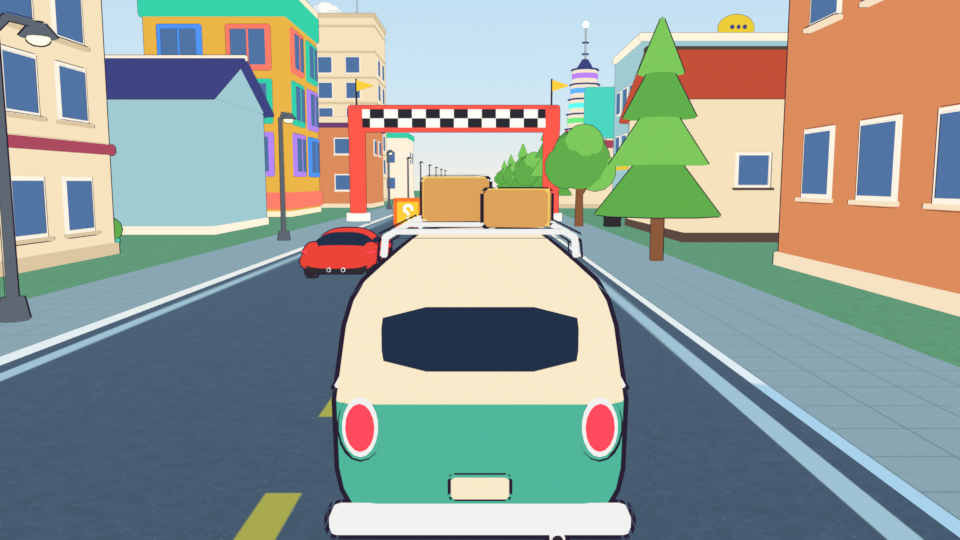
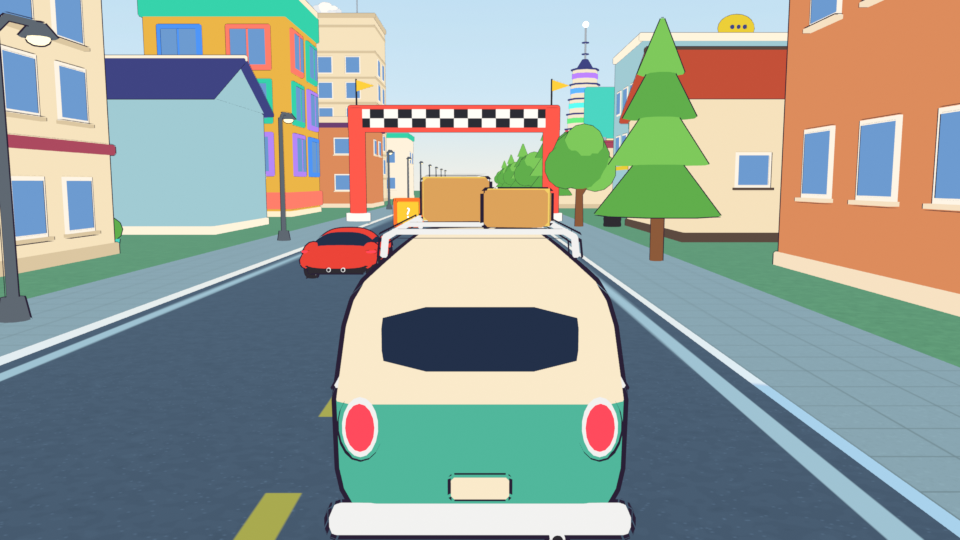
Art: portraits (Dina, Gee, Noise), courier heroes, more trees, extra textures, art README

diff --git a/tools/e2e_main.py b/tools/e2e_main.py
@@ -1,0 +1,132 @@
+"""End-to-end check of the MAIN page (index.html) with the drive engine, in the real Chrome (GPU).
+usage: python -I tools/e2e_main.py <out_prefix> [WxH] [base_url] [steps]
+steps (comma list, default all): lesson, race, delivery, drift, tow
+Records bus events (drive:poi, drive:race-end, drive:toast) and screenshots each stage.
+"""
+import sys, json
+sys.stdout.reconfigure(encoding="utf-8", errors="replace")
+from playwright.sync_api import sync_playwright
+
+prefix = sys.argv[1]
+w, h = [int(x) for x in (sys.argv[2] if len(sys.argv) > 2 else "1280x720").split("x")]
+base = sys.argv[3] if len(sys.argv) > 3 else "http://localhost:5182/"
+steps = (sys.argv[4] if len(sys.argv) > 4 else "lesson,race,delivery,drift,tow").split(",")
+touch = w < 800
+
+HOOK = """() => {
+  const pr = window.__pr; window.__ev = [];
+  for (const k of ['drive:poi', 'drive:race-end', 'drive:toast', 'drive:gate', 'drive:ready'])
+    pr.bus.on(k, (p) => window.__ev.push([k, JSON.stringify(p ?? null).slice(0, 160)]));
+  return 'hooked';
+}"""
+
+def ev(pg, clear=True):
+    r = pg.evaluate("() => { const e = window.__ev.slice(); return e; }")
+    if clear:
+        pg.evaluate("() => { window.__ev.length = 0; }")
+    return r
+
+def teleport_to(pg, poi_id):
+    return pg.evaluate("""(id) => { const d = window.__pr.drive; const p = d.city.pois.find((q) => q.id === id);
+      if (!p) return 'no poi ' + id; const r = d.city.nearestRoad(p.x, p.z);
+      window.__pr.bus.emit('drive:teleport', { x: p.x, z: p.z, heading: r.heading }); return [p.x.toFixed(0), p.z.toFixed(0)]; }""", poi_id)
+
+def click_text(pg, text, timeout=4000):
+    pg.get_by_role("button", name=text).first.click(timeout=timeout)
+
+def race_with_bot(pg, race_id, max_s, tag):
+    pg.evaluate("""(id) => { const d = window.__pr.drive; const r = d.city.races.find((q) => q.id === id || q.kind === id);
+       window.__pr.bus.emit('drive:start-race', r); d.setAuto(true); return r && r.id; }""", race_id)
+    pg.wait_for_timeout(5000)
+    pg.screenshot(path=f"{prefix}_{tag}_a.png")
+    end = None
+    for i in range(int(max_s / 2)):
+        pg.wait_for_timeout(2000)
+        es = ev(pg)
+        for k, p in es:
+            if k == 'drive:race-end':
+                end = p
+        if end:
+            break
+    pg.wait_for_timeout(800)
+    pg.screenshot(path=f"{prefix}_{tag}_end.png")
+    pg.evaluate("() => window.__pr.drive.setAuto(false)")
+    print(tag, "race-end:", end)
+
+with sync_playwright() as p:
+    b = p.chromium.launch(executable_path=r"C:\Program Files\Google\Chrome\Application\chrome.exe", headless=True,
+                          args=["--headless=new", "--use-angle=d3d11", "--enable-gpu", "--ignore-gpu-blocklist", "--disable-background-timer-throttling", "--disable-renderer-backgrounding"])
+    pg = b.new_context(viewport={"width": w, "height": h}, has_touch=touch, is_mobile=touch).new_page()
+    errs = []
+    pg.on("pageerror", lambda e: errs.append("PAGEERROR " + str(e)))
+    pg.on("console", lambda m: errs.append(m.text) if m.type == "error" and "404" not in m.text else None)
+    pg.goto(base + "?fresh", wait_until="networkidle")
+    pg.wait_for_timeout(1200)
+    click_text(pg, "התחלה")
+    pg.wait_for_timeout(500)
+    try:
+        click_text(pg, "יאללה")
+    except Exception as e:
+        print("no יאללה", e)
+    for i in range(14):
+        pg.mouse.click(w // 2, h // 2); pg.wait_for_timeout(150)
+        pg.mouse.click(w // 2, h // 2); pg.wait_for_timeout(250)
+        if pg.locator(".help-screen").count():
+            break
+    try:
+        click_text(pg, "הבנתי")
+    except Exception as e:
+        print("no הבנתי", e)
+    pg.wait_for_function("() => window.__pr && window.__pr.drive && window.__pr.drive.sim", timeout=20000)
+    print(pg.evaluate(HOOK))
+    pg.wait_for_timeout(2500)
+    pg.screenshot(path=f"{prefix}_0world.png")
+
+    if "lesson" in steps:
+        print("teleport", teleport_to(pg, "garage_lesson06"))
+        pg.wait_for_timeout(1500)
+        pg.screenshot(path=f"{prefix}_1poi.png")
+        if touch:
+            print("prompt", pg.evaluate("() => document.body.innerText.includes('מוסך') "))
+        pg.keyboard.press("KeyE")
+        pg.wait_for_timeout(1500)
+        print("lesson events", ev(pg))
+        pg.screenshot(path=f"{prefix}_2lesson.png")
+        pg.goto(base + "?fresh", wait_until="networkidle")   # restart clean for the races
+        pg.wait_for_timeout(1000)
+        click_text(pg, "התחלה"); pg.wait_for_timeout(400)
+        try: click_text(pg, "יאללה")
+        except Exception: pass
+        for i in range(14):
+            pg.mouse.click(w // 2, h // 2); pg.wait_for_timeout(150)
+            pg.mouse.click(w // 2, h // 2); pg.wait_for_timeout(250)
+            if pg.locator(".help-screen").count(): break
+        try: click_text(pg, "הבנתי")
+        except Exception: pass
+        pg.wait_for_function("() => window.__pr && window.__pr.drive && window.__pr.drive.sim", timeout=20000)
+        pg.evaluate(HOOK)
+        pg.wait_for_timeout(1500)
+
+    if "race" in steps:
+        print("teleport", teleport_to(pg, "race_r_docks"))
+        pg.wait_for_timeout(1200)
+        pg.keyboard.press("KeyE")
+        pg.wait_for_timeout(1500)
+        print("race poi events", ev(pg, clear=False))
+        pg.screenshot(path=f"{prefix}_3racepoi.png")
+        race_with_bot(pg, "r_docks", 260, "4circuit")
+    if "delivery" in steps:
+        race_with_bot(pg, "delivery", 160, "5delivery")
+    if "drift" in steps:
+        race_with_bot(pg, "drift", 120, "6drift")
+    if "tow" in steps:
+        pg.evaluate("""() => { const d = window.__pr.drive; const r = d.city.races.find((q) => q.kind === 'circuit'); window.__pr.bus.emit('drive:start-race', r); }""")
+        pg.wait_for_timeout(5000)
+        print("tow mid-race", teleport_to(pg, "garage_main"))
+        pg.wait_for_timeout(1500)
+        print("race after tow:", pg.evaluate("() => !!window.__pr.drive.sim.race"))
+        pg.screenshot(path=f"{prefix}_7tow.png")
+    print("fps", round(pg.evaluate("() => window.__pr.drive.fps()"), 1))
+    for e in errs[:12]:
+        print("ERR", e[:300])
+    b.close()

diff --git a/art/build_all.py b/art/build_all.py
@@ -1,0 +1,40 @@
+"""Rebuild all Packet Run art.  python art/build_all.py [tex] [cars] [city] [portraits] [previews]   (default: everything)
+Needs Blender 5.2 (env BLENDER overrides the path), Python 3 with Pillow + numpy. ~15 min for everything."""
+import glob, json, os, subprocess, sys
+
+HERE = os.path.dirname(os.path.abspath(__file__))
+ROOT = os.path.dirname(HERE)
+BL = os.environ.get('BLENDER', r'C:\Program Files\Blender Foundation\Blender 5.2\blender.exe')
+RAW = os.path.join(HERE, '_raw')
+
+
+def blender(script, *a):
+    subprocess.run([BL, '-b', '--python', os.path.join(HERE, 'blender', script), '--', *a], check=True)
+
+
+def py(script, *a):
+    subprocess.run([sys.executable, os.path.join(HERE, script), *a], check=True)
+
+
+def manifest():
+    d = {os.path.basename(f)[:-5]: json.load(open(f)) for f in sorted(glob.glob(os.path.join(RAW, 'manifest', '*.json')))}
+    json.dump(d, open(os.path.join(ROOT, 'public', 'assets', 'models', 'index.json'), 'w'), indent=1)
+
+
+steps = sys.argv[1:] or ['tex', 'cars', 'city', 'portraits', 'previews']
+if 'tex' in steps:
+    py('tex_pil.py', 'vinyl', 'road', 'ground', 'sky', 'water', 'fx')
+if 'cars' in steps:
+    blender('cars.py')
+if 'city' in steps:
+    blender('city.py', 'all')
+if 'cars' in steps or 'city' in steps:
+    manifest()
+    py('check_glb.py')
+if 'portraits' in steps:
+    blender(os.path.join('cast', 'pr_render.py'), 'all', RAW)
+    blender(os.path.join('cast', 'pr_render.py'), 'hero_girl,hero_boy', RAW)
+    py('pack_portraits.py', RAW)
+if 'previews' in steps:
+    blender('preview_vinyl.py')
+    blender('preview_street.py')

diff --git a/art/README.md b/art/README.md
@@ -1,0 +1,96 @@
+# Packet Run art (Blender 5.2 headless -> GLB, Pillow -> textures/portraits)
+
+Standalone: everything here is local (the portrait library under `blender/cast/` was copied from message-ship, no imports across repos).
+Needs Blender 5.2 (`C:\Program Files\Blender Foundation\Blender 5.2\blender.exe`, env `BLENDER` overrides) and Python 3 with Pillow + numpy.
+
+## Rebuild
+```
+python art/build_all.py                       # everything (~15 min)
+python art/build_all.py tex cars city portraits previews   # any subset
+blender -b --python art/blender/cars.py -- car_van wheel_std [noprev]
+blender -b --python art/blender/city.py -- bld_d1_a tree_a ... | all [noprev]
+python art/tex_pil.py vinyl road ground sky water fx
+blender -b --python art/blender/cast/pr_render.py -- dina,gee,noise,hero_girl,hero_boy <ABS art/_raw>
+python art/pack_portraits.py <ABS art/_raw>
+python art/check_glb.py [name ...]            # GLB JSON check: contract node/material names, triangle limits
+python art/sheet.py out.png cols cellw name...   # contact sheet of art/_raw/previews/<name>.png
+```
+Raw/intermediate output: `art/_raw/` (git-ignored): `previews/` (toon preview of every model), `manifest/` (per-model json ->
+`public/assets/models/index.json`), `portraits/` (1024 raw renders), `portraits_ship/` (the original ship hero portraits).
+
+Scripts: `blender/prlib.py` (mesh builder B, flat materials, GLB export, toon preview renderer), `blender/cars.py` (lofted superellipse
+bodies, wheels, vinyl shells), `blender/kit.py` (building helpers), `blender/city.py` (driver + d1/d7 first buildings, lamp, tree_a),
+`blender/bld_more.py` (all districts, garages, shop, fuel, tower), `blender/props.py` (props, track pieces, items, sky, sea),
+`blender/preview_vinyl.py`, `blender/preview_street.py`, `blender/cast/` (portraits), `tex_pil.py`, `pack_portraits.py`.
+
+## Conventions (all models)
+1 unit = 1 m. glTF Y up, **front = -Z**. Base colours only, no baked light; the material NAME is the role (the engine makes toon
+materials from the base colour). Origin = ground centre unless noted. Sizes/tris per model: `public/assets/models/index.json`
+(`size` = [x, y(up), z] m, `min`/`max`, cars also `wheels` positions). Limits (checked): car 12k, building 3k, prop 800 tris.
+
+## Cars `car_van|hatch|sport|jeep|super.glb` (11.0k-11.9k tris)
+- Nodes: `Body` (origin on the ground under the car middle) with children `Vinyl`, `Spoiler`, `NitroFlame`; top-level `WheelFL`,
+  `WheelFR`, `WheelRL`, `WheelRR` (origin = wheel centre, y = 0.34, spin about local X; left wheels have mirrored geometry).
+- `Spoiler` and `NitroFlame` are visible in the file: hide them in code by default.
+- Materials: `Paint` (replaced by code), `Trim` (second body colour: van cream, hatch white roof, sport/super carbon, jeep grey),
+  `Glass` (dark: no driver visible), `Chrome`, `Rubber`, `Light_head`, `Light_tail`, `Emissive` (nitro flame), `Rim`, `VinylMat`;
+  van also `Cargo`, `Tape` (roof parcels).
+- `Vinyl`: white `VinylMat` shell 1.6 cm over the paint (sides, hood, roof) with UVs: u = 0 at the car FRONT -> 1 rear; on the sides
+  v = bottom -> top, on hood/roof v runs across. Set map = `tex/vinyl_<id>.png`, color = vinylColor, transparent; no outline on it.
+- Default wheels inside: van/hatch std, sport/super sport, jeep offroad (+ a spare on the back).
+- Characters: van = friendly two-tone bus (round eyes, smile grille, roof rack); hatch = cute frog-eye mini; sport = long-hood GT with
+  fender bulges; jeep = tall boxy 4x4 (7-slot grille, flares, light bar, snorkel); super = very low wedge, roof air-box, rear fins, canards.
+
+## Wheels `wheel_std|sport|offroad.glb`
+One node `Wheel`, a RIGHT-side wheel (rim faces +X), radius 0.34 (offroad tread to 0.35). Left side: scale.x = -1. Materials `Rubber`,
+`Rim` (recolour for rim colour), `Chrome` (+ `Light_tail` brake caliper on sport).
+
+## City (front/door/sign = -Z, face the road)
+| district | models |
+|---|---|
+| 1 cable docks | `bld_d1_a` barrel-roof warehouse, `bld_d1_b` gantry crane, `bld_d1_c` container stack, `bld_d1_d` giant cable spool |
+| 2 frames | `bld_d2_a` frame tower, `bld_d2_b` row houses, `bld_d2_c` header/payload/trailer house, `bld_d2_d` stacked frame rings |
+| 3 routing hills | `bld_d3_a` cottage on a mound, `bld_d3_b` router-roof house on a mound, `bld_d3_c` arrow-sign mast, `bld_d3_d` house on an arch (road along X) |
+| 4 ports | `bld_d4_a` doors 21 22 25 53, `bld_d4_b` gates 80 / 443, `bld_d4_c` port tower, `bld_d4_d` roundabout gatehouse |
+| 5 conversation | `bld_d5_a` cafe + tables, `bld_d5_b` two houses + phone-cord bridge, `bld_d5_c` speech-bubble kiosk, `bld_d5_d` balcony flats |
+| 6 cipher gardens | `bld_d6_a` giant padlock + hedge ring, `bld_d6_b` greenhouse + maze, `bld_d6_c` keyhole tower + key, `bld_d6_d` cipher-wheel pavilion |
+| 7 apps | `bld_d7_a` app shop, `bld_d7_b` phone tower, `bld_d7_c` demo dome, `bld_d7_d` billboard mall |
+
+Specials: `bld_garage_main` (Dina, wrench sign), `bld_garage_lesson06` (rule badges), `bld_garage_lesson07` (7 layer floors),
+`bld_garage_lesson08` (nested containers), `bld_shop` (spray can + rim), `bld_fuel` (canopy, drive through along X), `landmark_tower`
+(45 m, seven glowing floors, beacon). Building materials: `Wall`, `Wall2`, `Roof`, `Accent`, `Trim`, `Frame`, `Glass`, `Door`,
+`Metal`, `Stone`, `Wood`, `Leaf`, `Emissive`, `Light_tail`, plus a few named colours (Icon0-5, P0-4, F0-3, Box0-5, ...).
+
+Props: `tree_a` round, `tree_b` pine, `tree_c` palm, `tree_d` autumn, `tree_e` cypress, `tree_f` blossom, `bush`, `plant_flowers`,
+`rock_a|b`, `lamp_post` (arm toward -Z), `traffic_light` (lamps `Light_red|Light_yellow|Light_green`), `fence` (4 m along X),
+`sign_arrow`, `bench`, `crate`, `barrel`, `statue_small`.
+Track: `ramp` (4 x 6 x 1.3 m, climb driving toward -Z), `bridge_piece` (12 m along Z, origin = deck TOP centre), `checkpoint_gate`
+(12 m between pillars), `nitro_pad` (4 x 3, chevrons -> -Z).
+Pickups: `item_box` (1.24 m, origin centre, '?' on 4 sides), `answer_box` (tint `Paint`, white `Label` panel on -Z for text), `coin`
+(0.8 m, origin centre, spin about Y), `parcel` (origin centre, halo ring).
+Throwables: `item_oil`, `item_cones` (ONE cone, scatter several), `item_glue`, `item_boostpad`, `item_mine` (magnet bubble with a face),
+`item_smoke`. Sky/sea: `sky_dome` (r 900, inverted, `Sky` + tex/sky_gradient.png, render unlit/BackSide/no fog), `cloud_a|b|c`,
+`sea_plane` (400 m, UV 0..40 -> tile tex/water.png).
+
+## Textures `public/assets/tex/`
+`vinyl_stripes|flames|stars|checker|net.png` (512, white on transparent), `road_asphalt|lines|crosswalk|curb|sidewalk.png` (512
+seamless; road_lines: u across the road, v along, one tile = 8 m), `ground_grass|sand|dirt|pavement.png` (512 seamless), `water.png`
+(256 seamless), `sky_gradient.png`, `sun.png` (additive glow), `skid.png` (128 x 512 tyre mark, u across, v along, seamless in v),
+`speedlines.png` (512 radial streaks, screen overlay while boosting), `boost_ring.png` (256 additive ring), `coin_icon.png` (128 HUD).
+
+## Portraits `public/assets/portraits/<who>_<mood>.png` (512, moods neutral/happy/worried/surprised, + index.json)
+New: `dina` (elderly mechanic: red flowered headscarf with goggles, plaid shirt, denim overalls, grease smudge, wrench in pocket),
+`gee` (GPS buddy, face on the screen, antenna, suction mount), `noise` (helmet with a dark visor, face hidden, glowing slit eyes,
+violet glitch stripes, RGB-split + flaking letters pass). `hero_girl` / `hero_boy` re-rendered as couriers (racing jackets, headscarf /
+cap). Kept from the ship: `uri`, `talia`, `barak`, `naama`, `bit` (sailor/keeper clothes).
+
+## Previews (looked at)
+`art/preview_cars.png`, `art/preview_cars_rear.png` (five cars with vinyls + spoilers), `art/preview_street.png` (chase cam at racing
+scale), `art/preview_street_high.png`, `art/preview_portraits.png`; per-model toon previews in `art/_raw/previews/`.
+
+## Known limitations
+- Toon previews are an approximation; the engine's own toon + outline decides the final look.
+- Vinyls stretch 3-6x along the side panels (round shapes are pre-squashed); they look narrower on the hood.
+- Building windows are opaque (no interiors). Trees are faceted low-poly blobs by design.
+- Sport and super share the lofted-wedge language; the super is set apart by height, wing, air-box and fins.
+- Uri/Talia/Barak/Naama portraits still wear ship clothes.
